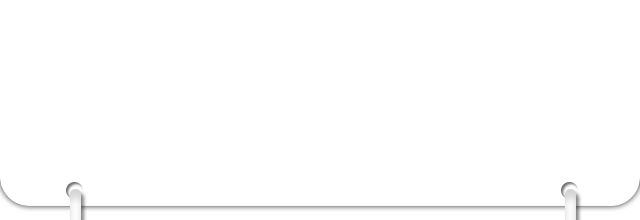
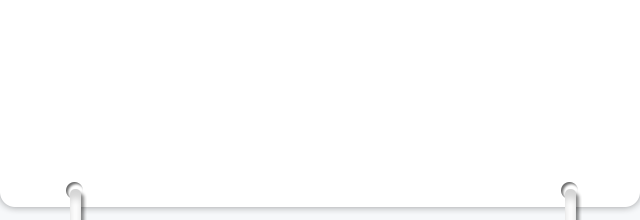
fix:首页日历

Changed region(s): [[0.125, 0.9273, 0.875, 0.9545], [0.9062, 0.8455, 1.0, 0.9545], [0.0, 0.8455, 0.0938, 0.9545]]

diff --git a/src/assets/css/v4/welcome.less b/src/assets/css/v4/welcome.less
@@ -1,11 +1,12 @@
 .m-welcome {
-    background-size: 100% auto;
+    // background-size: 100% auto;
+    background-size: 100% 100%;
     height: 110px;
     .pr;
     box-sizing: border-box;
     background-repeat: no-repeat;
     z-index: 1;
-    border-radius: 16px;
+    border-radius: 7.5px;
 }
 .u-border {
     .pr;
